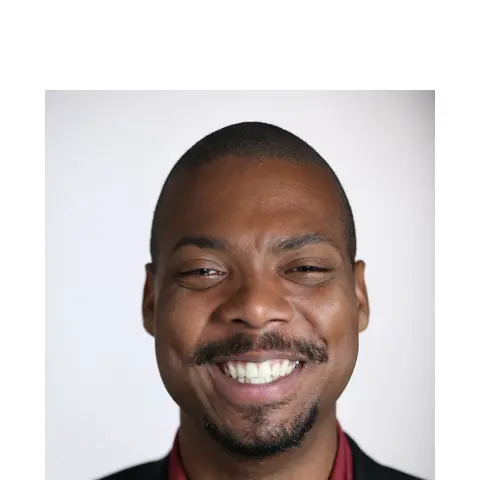
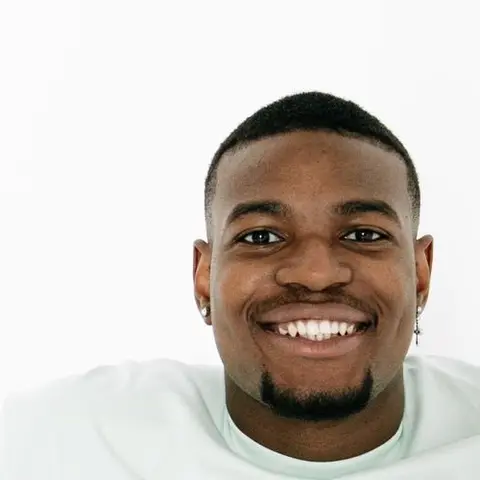
Restore masthead gradient and replace Eric portrait

diff --git a/styles.css b/styles.css
@@ -386,12 +386,12 @@ h3 {
   display: inline-block;
   color: var(--gold);
   background: linear-gradient(
-    180deg,
-    #f2d36f 0%,
-    #d89a22 36%,
-    #f6df8c 52%,
-    #cb8212 70%,
-    #ad5d05 100%
+    90deg,
+    #b96a00 0%,
+    #e7a31a 24%,
+    #ffd873 50%,
+    #e7a31a 76%,
+    #b96a00 100%
   );
   background-size: 100% 100%;
   -webkit-background-clip: text;

diff --git a/CREDITS.md b/CREDITS.md
@@ -28,7 +28,7 @@ illustrative portraits under the [Pexels license](https://www.pexels.com/license
 - Sarah B.: [Smiling woman in professional attire](https://www.pexels.com/photo/smiling-woman-in-white-shirt-24389353/)
 - Thomas L.: [Smiling man in a suit jacket](https://www.pexels.com/photo/a-man-in-a-suit-jacket-5906433/)
 - Leona S.: [Smiling woman in a black blazer](https://www.pexels.com/photo/a-smiling-woman-in-black-blazer-12946488/)
-- Eric W.: [Smiling man in a black suit](https://www.pexels.com/photo/man-wearing-black-suit-on-white-background-12311572/)
+- Eric W.: [Smiling man in a white shirt](https://www.pexels.com/photo/a-man-in-white-shirt-smiling-8508753/)
 - Inez P.: [Smiling woman in a mint green blazer](https://www.pexels.com/photo/smiling-woman-in-mint-green-blazer-portrait-31622604/)
 - Jack R.: [Confident businessman in formal attire smiling](https://www.pexels.com/photo/confident-businessman-in-formal-attire-smiling-36845967/)
 - Rachel L.: [Woman in mustard business attire smiling](https://www.pexels.com/photo/woman-in-mustard-business-attire-sitting-on-white-floor-while-smiling-at-the-camera-8498380/)
